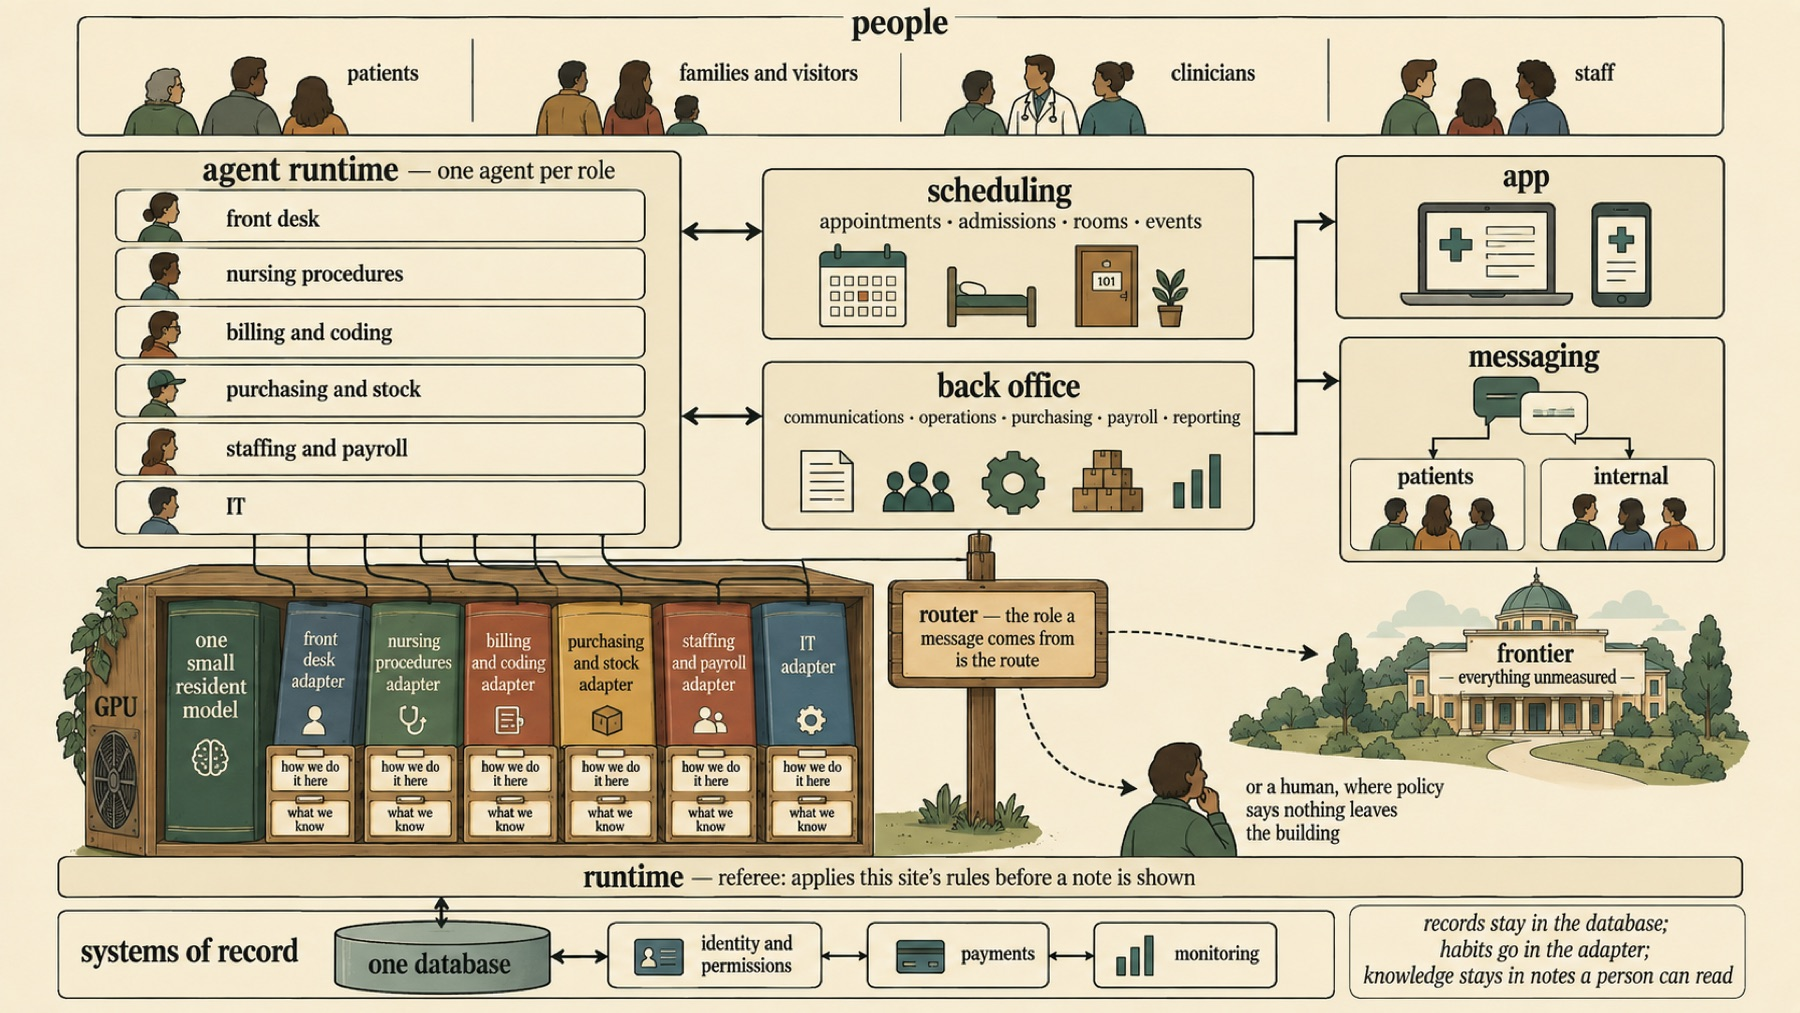
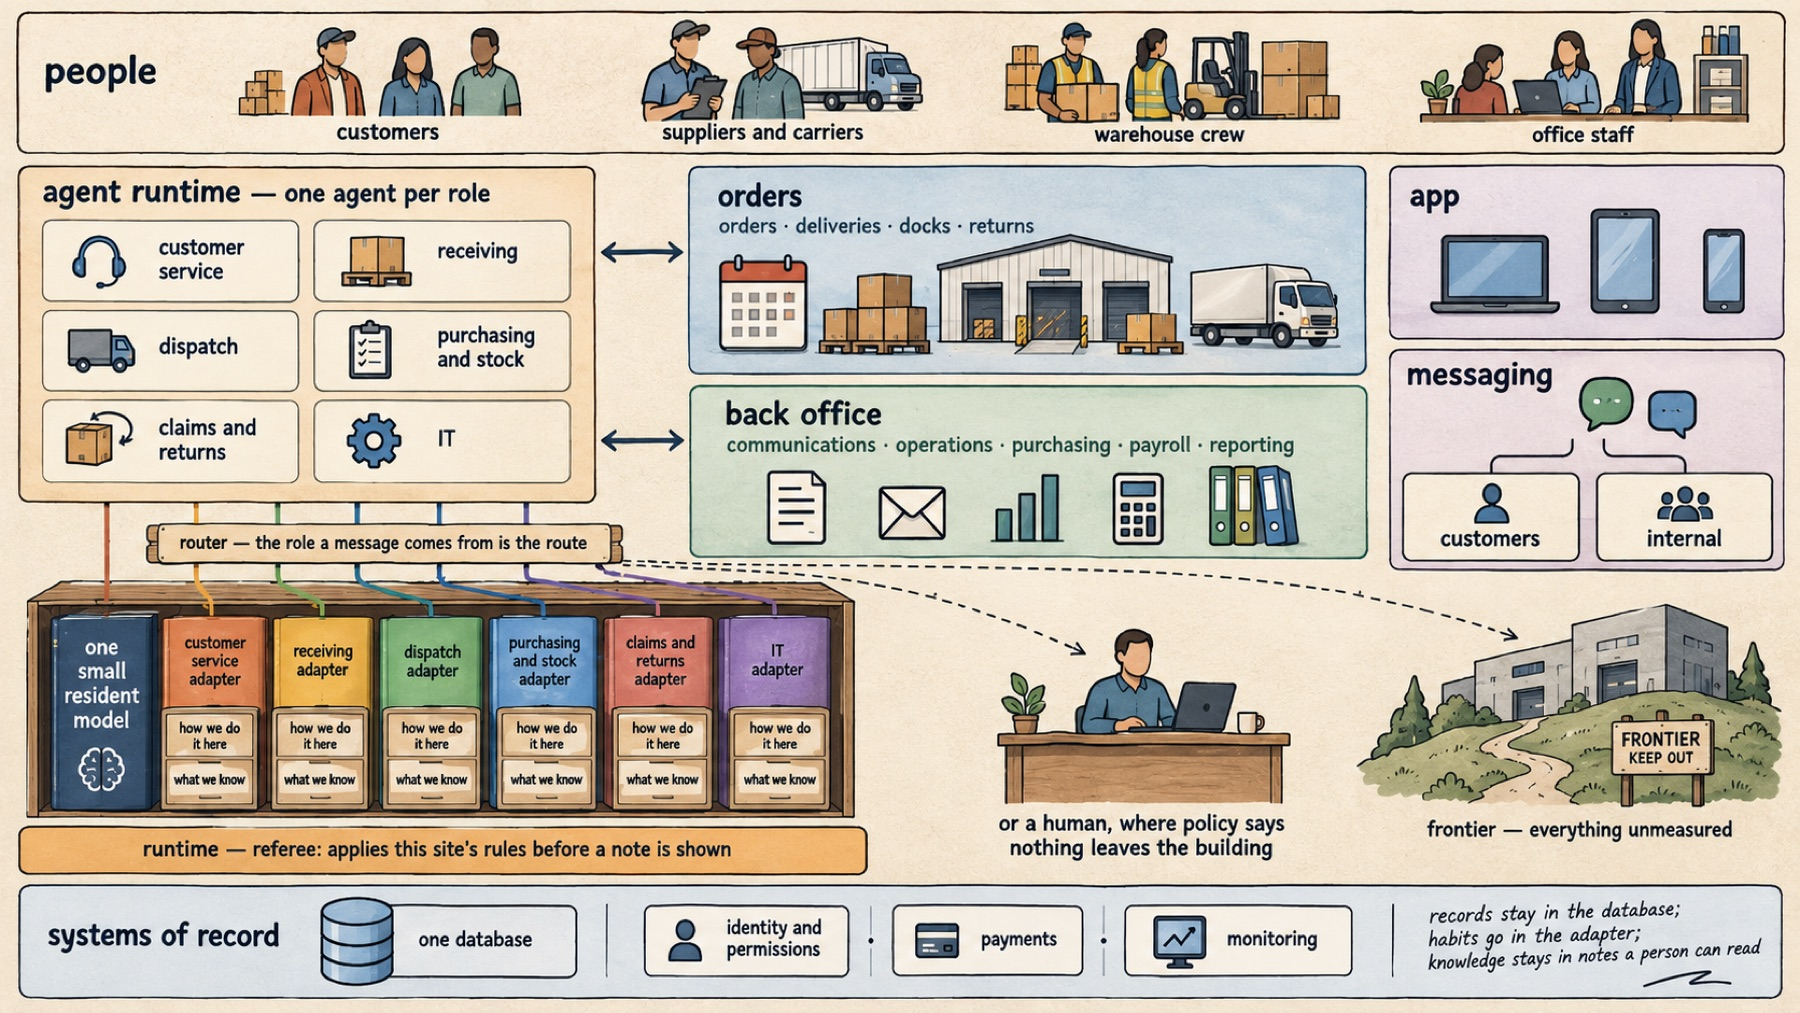
The worked example becomes a distributor: the redrawn picture, its caption and the table of settings (#47)

diff --git a/index.html b/index.html
@@ -128,8 +128,8 @@
         and cuts a walk that skips a required step.</figcaption>
     </figure>
     <p class="note"><span class="chip warn">being built</span>&nbsp; The first library exists &mdash;
-      IV-therapy nursing procedures from Open RN <i>Nursing Skills</i> (CC&nbsp;BY&nbsp;4.0), as short linked
-      notes that pass a lint. The central claim is <b>untested</b>: that a library extends an expert
+      the step-by-step procedures of an open textbook (CC&nbsp;BY&nbsp;4.0), as short linked
+      notes that pass a lint, and the referee that walks them. The central claim is <b>untested</b>: that a library extends an expert
       to a procedure it never trained on.</p>
   </section>
 
@@ -187,24 +187,25 @@
     </div>
     <figure class="plate">
       <img src="/assets/img/lora-kernel/solution-architecture.jpg" loading="lazy"
-           alt="A solution architecture in five layers: people in four roles; an agent runtime with one agent per role; scheduling and back-office applications; app and messaging channels; one database with identity, payments and monitoring. Under the agents, one graphics card drawn as a bookshelf: one thick spine, the resident model, and a thin spine per role, each with two drawers of notes. A signpost routes by role; dashed lines leave for the frontier and for a person.">
-      <figcaption>A clinic, as the example: one adapter per role under the agent column, two drawers of
+           alt="A solution architecture in five layers: people in four roles; an agent runtime with one agent per role; order and back-office applications; app and messaging channels; one database with identity, payments and monitoring. Under the agents, one graphics card drawn as a bookshelf: one thick spine, the resident model, and a thin spine per role, each with two drawers of notes. A signpost routes by role; dashed lines leave for the frontier and for a person.">
+      <figcaption>A distributor, as the example: one adapter per role under the agent column, two drawers of
         notes under each, the role as the route &mdash; and the systems of record left where they are.</figcaption>
     </figure>
     <table class="measured" id="rooms">
       <thead><tr><th>organisation</th><th>roles that become experts</th><th>what goes in the two drawers</th></tr></thead>
       <tbody>
-        <tr><td>a clinic</td><td>front desk, nursing procedures, billing and coding, purchasing, staffing</td><td>the unit&rsquo;s protocols over the textbook&rsquo;s &middot; formulary, tariffs, payer rules</td></tr>
+        <tr><td>a distributor</td><td>customer service, receiving, dispatch, purchasing, claims</td><td>the site&rsquo;s handling procedures &middot; catalogue, carriers, service levels</td></tr>
         <tr><td>an accounting or law office</td><td>intake, document review, deadlines, billing</td><td>the firm&rsquo;s checklists and templates &middot; the rules of its jurisdiction</td></tr>
-        <tr><td>a warehouse or distributor</td><td>receiving, dispatch, purchasing, claims</td><td>the site&rsquo;s handling procedures &middot; catalogue, carriers, service levels</td></tr>
         <tr><td>a school or training centre</td><td>enrolment, teaching support, communications, purchasing</td><td>how this school handles each case &middot; programme, calendar, regulations</td></tr>
+        <tr><td>a repair or field-service company</td><td>equipment intake, diagnosis, spare parts, warranties</td><td>the procedure for each kind of repair &middot; manuals, parts lists, warranty terms</td></tr>
+        <tr><td>a club or community centre</td><td>memberships, activity sign-ups, facilities, collections</td><td>how this club handles each case &middot; activities, fees, house rules</td></tr>
         <tr><td>a property manager</td><td>tenant requests, maintenance, collections, suppliers</td><td>the escalation procedure per building &middot; contracts, by-laws, supplier terms</td></tr>
       </tbody>
     </table>
     <p class="note"><span class="chip warn">not measured</span>&nbsp; These are where the design points,
       not results. What they share is what makes a region worth an expert: the same few procedures,
       repeated daily, with local rules that differ from the textbook, over data that should not leave.
-      The first library in the repository is the clinic&rsquo;s second role: IV-therapy nursing procedures.</p>
+      The first library in the repository is built from an open textbook&rsquo;s step-by-step procedures.</p>
   </section>
 
   <section id="teams">
